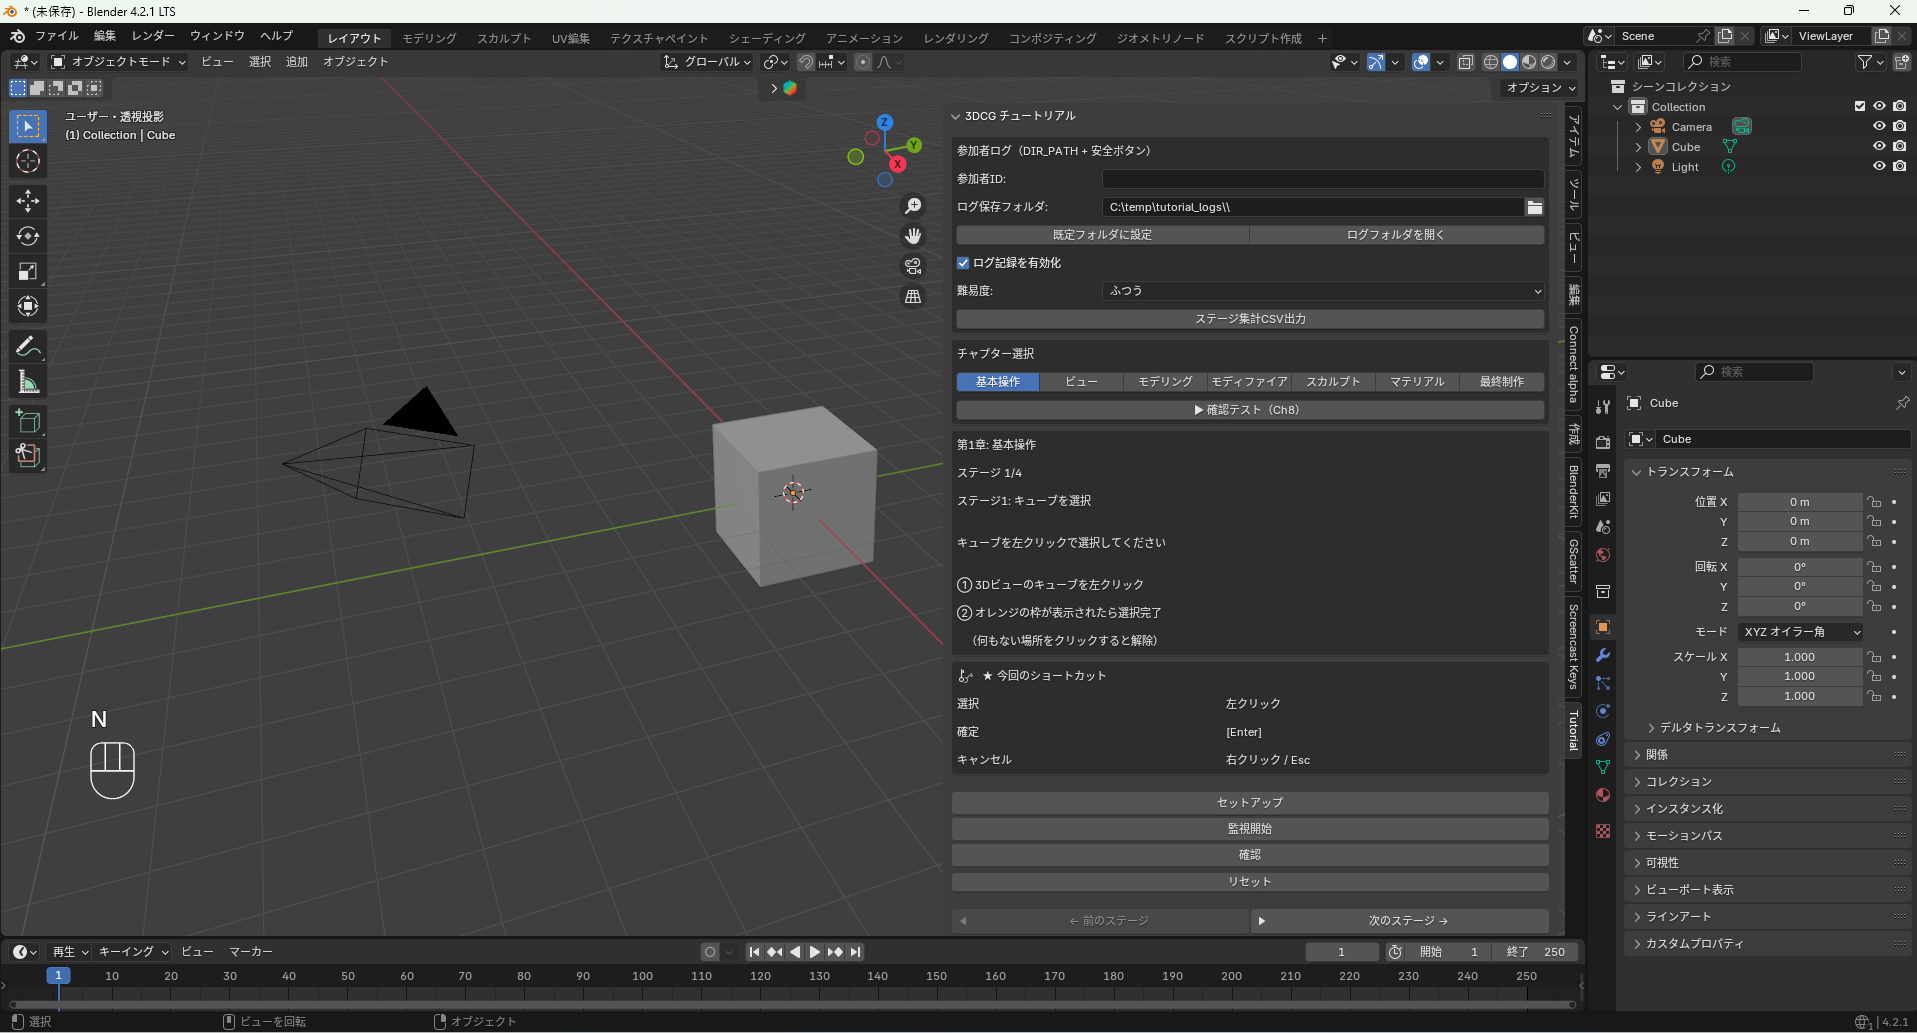
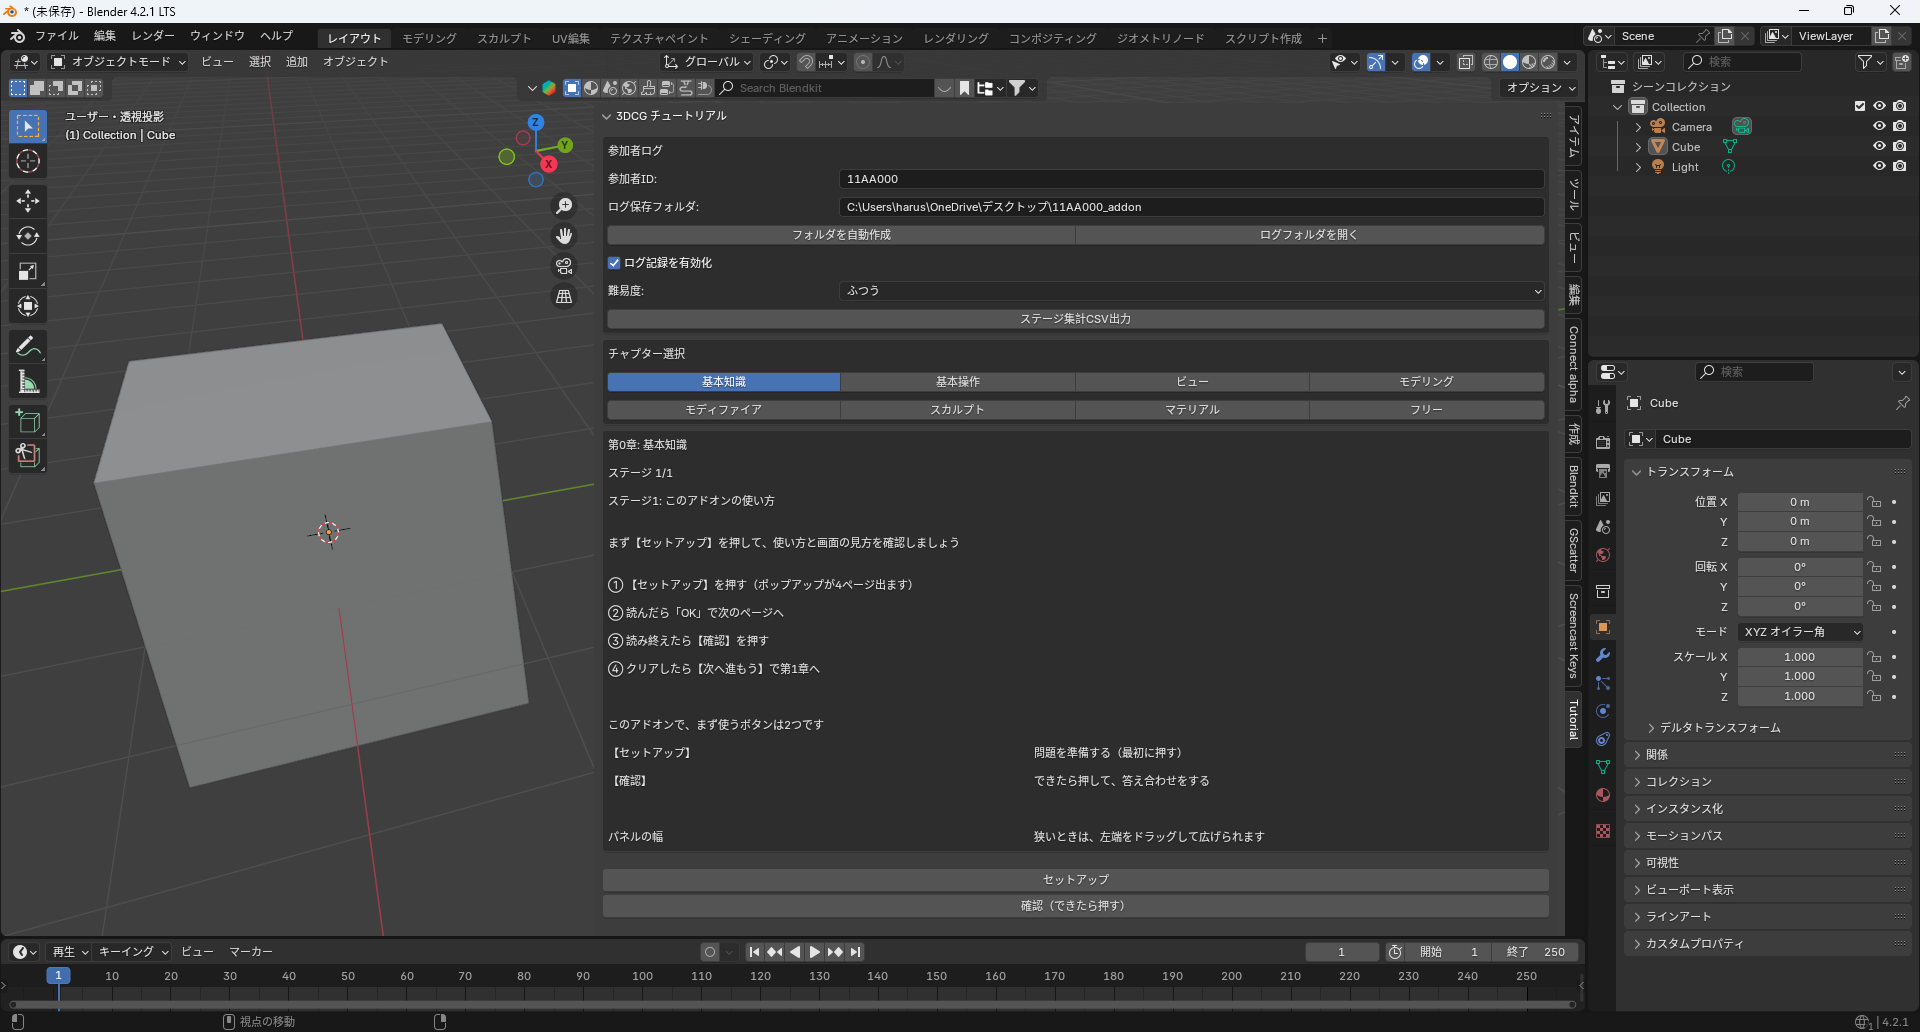
導入手順を最新版に更新：画像の差し替え（step1/2/3/10/11）、対応Blenderバージョン、第0章から始める手順、記録用アドオンの導入手順、FAQの追加・更新

diff --git a/index.html b/index.html
@@ -87,6 +87,7 @@
           <div class="card-btn-group">
             <a href="#install" class="card-btn">導入手順を見る</a>
             <a href="https://github.com/nakasone096/blender-comparison-logger" class="card-btn" target="_blank" rel="noopener">記録用アドオンを取得</a>
+            <a href="#install-logger" class="card-btn">記録用の導入手順</a>
           </div>
         </div>
 
@@ -98,6 +99,7 @@
           <div class="card-btn-group">
             <a href="https://www.youtube.com/watch?v=KxAMC-PRBOU&t=93s" class="card-btn card-btn--red" target="_blank" rel="noopener">動画を見る（1:33〜）</a>
             <a href="https://github.com/nakasone096/blender-comparison-logger" class="card-btn" target="_blank" rel="noopener">記録用アドオンを取得</a>
+            <a href="#install-logger" class="card-btn">記録用の導入手順</a>
           </div>
         </div>
 
@@ -114,6 +116,11 @@
     <!-- 導入手順セクション -->
     <section id="install" class="section-install">
       <h2>導入手順</h2>
+      <p class="section-desc">
+        対応バージョン：<strong>Blender 4.2 以上</strong>（4.2 LTS で動作確認）<br>
+        この手順は、<strong>チュートリアルアドオン</strong>の導入です。比較実験の確認テストに使う<strong>記録用アドオン</strong>は、
+        このあとの<a href="#install-logger">「記録用アドオンの導入」</a>をご覧ください。
+      </p>
       <div class="install-flow">
 
         <div class="step">
@@ -124,7 +131,7 @@
               上部の「リンク集」または下のボタンからGitHubページにアクセスしてください。
             </p>
             <a href="https://github.com/nakasone096/purototype_0001" class="step-link-btn" target="_blank" rel="noopener">GitHubを開く →</a>
-            <img src="step1.png" alt="GitHubページの画面" class="step-img">
+            <img src="step1.png?v=2" alt="GitHubページの画面" class="step-img">
           </div>
         </div>
 
@@ -135,10 +142,10 @@
           <div class="step-body">
             <h3>ZIPファイルをダウンロードする</h3>
             <p>
-              ページ右上の緑色の「<strong>Code</strong>」ボタンをクリックし、
+              ページ右側の緑色の「<strong>Code</strong>」ボタンをクリックし、
               メニュー内の「<strong>Download ZIP</strong>」を選択してダウンロードしてください。
             </p>
-            <img src="step2.png" alt="Download ZIPの画面" class="step-img">
+            <img src="step2.png?v=2" alt="Download ZIPの画面" class="step-img">
           </div>
         </div>
 
@@ -149,10 +156,10 @@
           <div class="step-body">
             <h3>ZIPファイルをデスクトップに置く</h3>
             <p>
-              ダウンロードしたZIPファイルをデスクトップに移動してください。<br>
+              ダウンロードしたZIPファイル（<code>purototype_0001-main.zip</code>）をデスクトップに移動してください。<br>
               <span class="step-caution">⚠ このZIPファイルは解凍（展開）しないでください。</span>
             </p>
-            <img src="step3.png" alt="ZIPをデスクトップに置いた状態" class="step-img">
+            <img src="step3.png?v=2" alt="ZIPをデスクトップに置いた状態" class="step-img">
           </div>
         </div>
 
@@ -225,9 +232,9 @@
               プリファレンスウィンドウを閉じ、3Dビュー上で
               「<strong>N キー</strong>」を押してサイドパネルを開いてください。<br>
               タブの中に「<strong>Tutorial</strong>」が表示されていれば、
-              インストール成功です。下の画像のように表示されることを確認してください。
+              インストール成功です。下の画像のように、<strong>第0章「基本知識」</strong>が表示されることを確認してください。
             </p>
-            <img src="step10.png" alt="Tutorialパネルが表示された画面" class="step-img">
+            <img src="step10.png?v=2" alt="Tutorialパネルが表示された画面" class="step-img">
           </div>
         </div>
 
@@ -240,12 +247,31 @@
             <p>
               Tutorialパネル上部の「<strong>参加者ID</strong>」欄に、
               自分の<strong>学籍番号</strong>を入力してください。<br>
-              （例：<code>23DB999</code>）<br>
-              記録の保存先は、デスクトップに「<strong>学籍番号_addon</strong>」フォルダ（例：<code>23DB999_addon</code>）が
-              <strong>自動で作られます</strong>。「ログ保存フォルダ」の欄は<strong>空欄のまま</strong>で構いません。
-              （先に作りたい場合は「フォルダを自動作成」ボタンを押してください）
+              （例：<code>11AA000</code>）<br>
+              記録の保存先は、デスクトップの「<strong>学籍番号_addon</strong>」フォルダ（例：<code>11AA000_addon</code>）で、
+              <strong>自動で作られます</strong>。「ログ保存フォルダ」の欄は、<strong>空欄のまま</strong>か、
+              下の画像のように<strong>自動で入った状態のまま</strong>にしてください。
+              （先に作りたい場合は「フォルダを自動作成」ボタンを押してください）<br>
+              <span class="step-caution">⚠ フォルダ選択のボタン（Blenderのファイルブラウザ）は、Blenderが落ちることがあるので使わないでください。</span>
             </p>
-            <img src="step11.png" alt="参加者IDに学籍番号を入力する画面" class="step-img">
+            <img src="step11.png?v=2" alt="参加者IDに学籍番号を入力する画面" class="step-img">
+          </div>
+        </div>
+
+        <div class="step-arrow">▼</div>
+
+        <div class="step">
+          <div class="step-num">10</div>
+          <div class="step-body">
+            <h3>第0章から始める</h3>
+            <p>
+              パネルの<strong>【セットアップ】</strong>を押すと、使い方と画面の見方を説明するポップアップが（4ページ）出ます。
+              読みながら「OK」で進んでください。<br>
+              読み終わったら<strong>【確認】</strong>を押し、クリアしたら<strong>【次へ進もう】</strong>で第1章へ進みます。
+            </p>
+            <p>
+              ※パネルが狭くて見づらいときは、サイドバーの<strong>左端をドラッグ</strong>すると、幅を広げられます。
+            </p>
           </div>
         </div>
 
@@ -257,7 +283,76 @@
             <h3>導入完了！</h3>
             <p>
               以上でアドオンの導入は完了です。<br>
-              チュートリアルを開始して、Blenderの操作を学んでいきましょう。
+              チュートリアルを進めて、Blenderの操作を学んでいきましょう。
+            </p>
+          </div>
+        </div>
+
+      </div>
+
+      <!-- 記録用アドオンの導入 -->
+      <h3 class="install-sub" id="install-logger">記録用アドオンの導入（比較実験の確認テスト用）</h3>
+      <p class="install-sub-desc">
+        比較実験にご協力いただく方（アドオン版・動画版の両方）が、確認テストを受けるために入れるアドオンです。<br>
+        入れ方は、上の手順の<strong>ステップ1〜7と同じ</strong>です（ダウンロードするページとZIPの名前だけが違います）。
+      </p>
+      <div class="install-flow">
+
+        <div class="step">
+          <div class="step-num">1</div>
+          <div class="step-body">
+            <h3>記録用アドオンをダウンロードして、インストールする</h3>
+            <p>
+              <a href="https://github.com/nakasone096/blender-comparison-logger" target="_blank" rel="noopener">記録用アドオンのGitHubページ</a>で、
+              上のステップ1〜3と同じように「<strong>Code</strong>」→「<strong>Download ZIP</strong>」でダウンロードし、デスクトップに置きます。<br>
+              ZIPの名前は <code>blender-comparison-logger-main.zip</code> です。<span class="step-caution">⚠ 解凍はしないでください。</span><br>
+              そのあと、上のステップ5〜7と同じ手順（「編集」→「プリファレンス」→「アドオン」→「∨」→「ディスクからインストール」）で、
+              この<code>blender-comparison-logger-main.zip</code>を選んでインストールします。
+            </p>
+          </div>
+        </div>
+
+        <div class="step-arrow">▼</div>
+
+        <div class="step">
+          <div class="step-num">2</div>
+          <div class="step-body">
+            <h3>「Logger」タブを開いて確認する</h3>
+            <p>
+              3Dビュー上で「<strong>N キー</strong>」を押し、サイドバーに「<strong>Logger</strong>」タブが表示されていれば成功です。
+              下の画像のように、「<strong>比較実験ツール</strong>」のパネルが開きます。
+            </p>
+            <img src="step-logger.png?v=2" alt="比較実験ツール（Loggerパネル）の画面" class="step-img">
+          </div>
+        </div>
+
+        <div class="step-arrow">▼</div>
+
+        <div class="step">
+          <div class="step-num">3</div>
+          <div class="step-body">
+            <h3>参加者IDと「群」を設定する</h3>
+            <p>
+              「<strong>参加者ID</strong>」に学籍番号を入力し、「<strong>群</strong>」で、<strong>実施者に案内された方法</strong>
+              （<strong>アドオン版</strong>／<strong>動画版</strong>）を選んでください。<br>
+              「ログ保存フォルダ」は<strong>空欄のまま</strong>で構いません（デスクトップに「学籍番号_群」のフォルダが自動で作られます）。
+            </p>
+            <p>
+              ・<strong>動画版</strong>の方：学習を始める前に「<strong>計測開始</strong>」を押し、学習が終わったら「<strong>計測終了</strong>」を押します。<br>
+              ・<strong>全員</strong>：学習が終わったら「<strong>テスト開始</strong>」を押して、確認テストを受けます。
+              テストが終わると、提出用の<strong>.zipファイル</strong>が自動で作られます（<a href="#faq">FAQ</a>をご覧ください）。
+            </p>
+          </div>
+        </div>
+
+        <div class="step-arrow">▼</div>
+
+        <div class="step step--complete">
+          <div class="step-num step-num--complete">✓</div>
+          <div class="step-body">
+            <h3>準備完了！</h3>
+            <p>
+              当日の進め方は、<a href="experiment.html">当日の案内ページ（参加者用）</a>をご覧ください。
             </p>
           </div>
         </div>
@@ -316,8 +411,8 @@
           </button>
           <div class="faq-body">
             <p>操作が完了していない可能性があります。<br>
-            パネル内のヒントをよく読んで、手順通りに操作してから再度「確認」ボタンを押してみてください。<br>
-            失敗するたびにヒントが追加表示されます。</p>
+            パネル内の説明とヒントをよく読んで、手順どおりに操作してから、もう一度<strong>【確認】</strong>を押してみてください。<br>
+            失敗するたびにヒントが追加表示されます。難易度が「ふつう」のときは、<strong>【手順を見る】</strong>を押すと手順が表示されます。</p>
           </div>
         </div>
 
@@ -340,6 +435,76 @@
         <div class="faq-item">
           <button class="faq-header" onclick="toggleFaq(this)">
             <span class="faq-q">Q</span>
+            <span class="faq-title">インストールしたのに、画面が古い・エラーが出る</span>
+            <span class="faq-arrow">▼</span>
+          </button>
+          <div class="faq-body">
+            <p>アドオンを入れ直したあとは、<strong>Blenderを完全に終了して、起動し直してください。</strong><br>
+            起動したままだと、古い部分と新しい部分が混ざって、エラーが出ることがあります。</p>
+          </div>
+        </div>
+
+        <div class="faq-item">
+          <button class="faq-header" onclick="toggleFaq(this)">
+            <span class="faq-q">Q</span>
+            <span class="faq-title">難易度は変えられる？</span>
+            <span class="faq-arrow">▼</span>
+          </button>
+          <div class="faq-body">
+            <p>パネル上部の「難易度」で、<strong>かんたん／ふつう／むずかしい</strong>を選べます。学習の途中でも変えられます。</p>
+            <ul>
+              <li><strong>かんたん</strong>：手順がすべて表示されます</li>
+              <li><strong>ふつう</strong>：機能の説明とショートカットが表示されます。手順は<strong>【手順を見る】</strong>で確認できます</li>
+              <li><strong>むずかしい</strong>：機能の説明だけが表示されます</li>
+            </ul>
+          </div>
+        </div>
+
+        <div class="faq-item">
+          <button class="faq-header" onclick="toggleFaq(this)">
+            <span class="faq-q">Q</span>
+            <span class="faq-title">「フリー」とは？ お手本の使い方は？</span>
+            <span class="faq-arrow">▼</span>
+          </button>
+          <div class="faq-body">
+            <p>チャプター選択の右下にある<strong>【フリー】</strong>は、判定のない自由な練習の場です。</p>
+            <ul>
+              <li>【フリー】を押しても、シーンはそのままです。<strong>【セットアップ】</strong>を押すと、何もない空のシーンになります</li>
+              <li>「お手本」の枠にある<strong>【ミニチュアハウス】</strong><strong>【三角コーン】</strong>を押すと、お手本が、となりに出ます。見るだけで、動かせません。作り方は自由で、正解や判定はありません</li>
+              <li>お手本は<strong>【お手本を消す】</strong>で消せます（自分で作ったものは消えません）</li>
+              <li>元のステージに戻るときは、章のボタンを押して、【セットアップ】を押します</li>
+            </ul>
+          </div>
+        </div>
+
+        <div class="faq-item">
+          <button class="faq-header" onclick="toggleFaq(this)">
+            <span class="faq-q">Q</span>
+            <span class="faq-title">パネルが狭くて見づらい</span>
+            <span class="faq-arrow">▼</span>
+          </button>
+          <div class="faq-body">
+            <p>サイドバー（パネルが出ている領域）の<strong>左端をドラッグ</strong>すると、幅を広げられます。</p>
+          </div>
+        </div>
+
+        <div class="faq-item">
+          <button class="faq-header" onclick="toggleFaq(this)">
+            <span class="faq-q">Q</span>
+            <span class="faq-title">確認テストが終わったら、何をアップロードすればいい？（比較実験）</span>
+            <span class="faq-arrow">▼</span>
+          </button>
+          <div class="faq-body">
+            <p>テストが終わると、ログ保存フォルダと同じ場所（初期設定ではデスクトップ）に、
+            <strong>「学籍番号_addon.zip」</strong>（動画版は「学籍番号_video.zip」）が<strong>自動で作られます</strong>。<br>
+            アンケートの最後の質問には、<strong>フォルダではなく、この「.zip」のファイル</strong>をアップロードしてください。</p>
+            <p>見つからないときは、Loggerパネルの<strong>「ログのZIPを作る」</strong>を押すと、作り直せます。</p>
+          </div>
+        </div>
+
+        <div class="faq-item">
+          <button class="faq-header" onclick="toggleFaq(this)">
+            <span class="faq-q">Q</span>
             <span class="faq-title">最新バージョンに更新したい</span>
             <span class="faq-arrow">▼</span>
           </button>
@@ -351,7 +516,7 @@
               <li>Blenderの「編集」→「プリファレンス」→「アドオン」にある古い「3DCG Tutorial Simulator」（削除ボタン）</li>
             </ul>
             <p>※デスクトップの「学籍番号_addon」フォルダには記録データが入っているので、<strong>削除しないでください</strong>。</p>
-            <p>削除後、<a href="#install">導入手順</a>の最初から進めてください。</p>
+            <p>削除後、<a href="#install">導入手順</a>の最初から進めてください。<strong>入れ直したら、Blenderを完全に終了して、起動し直してください。</strong></p>
           </div>
         </div>
 

diff --git a/css/style.css b/css/style.css
@@ -872,3 +872,16 @@ footer small {
 @media (max-width: 600px) {
   .ref-row { flex-direction: column; }
 }
+
+
+/* 導入手順の小見出し（記録用アドオンの導入など） */
+.install-sub {
+  text-align: center;
+  margin: 56px 0 8px;
+  font-size: 22px;
+}
+.install-sub-desc {
+  text-align: center;
+  margin-bottom: 24px;
+  color: var(--color-text-sub, inherit);
+}
